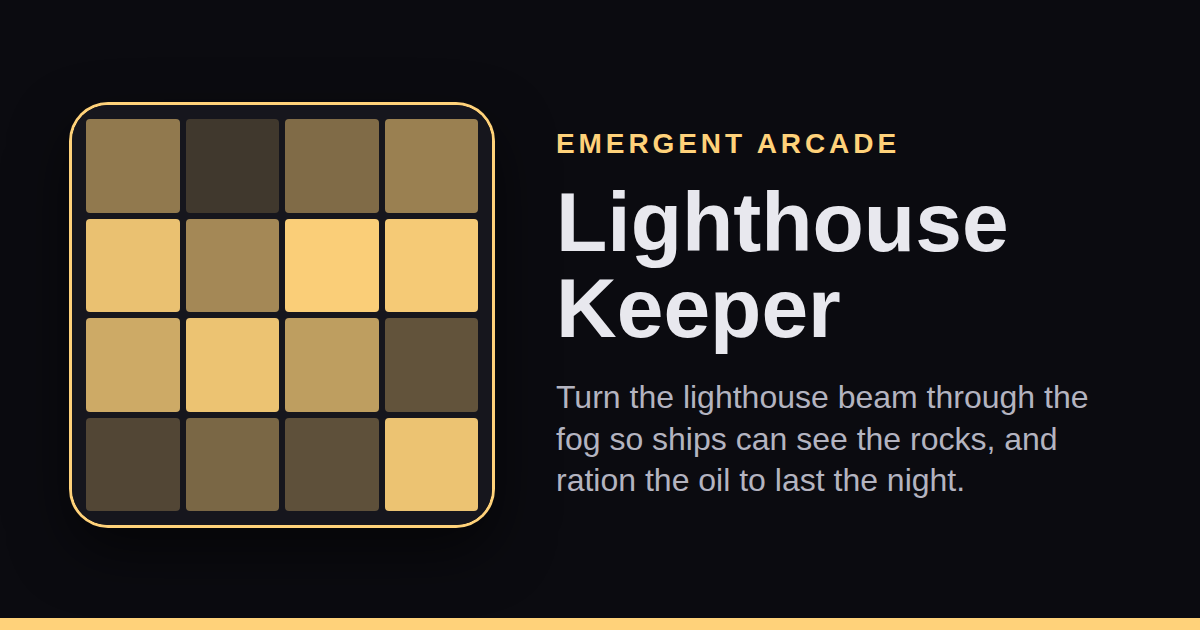
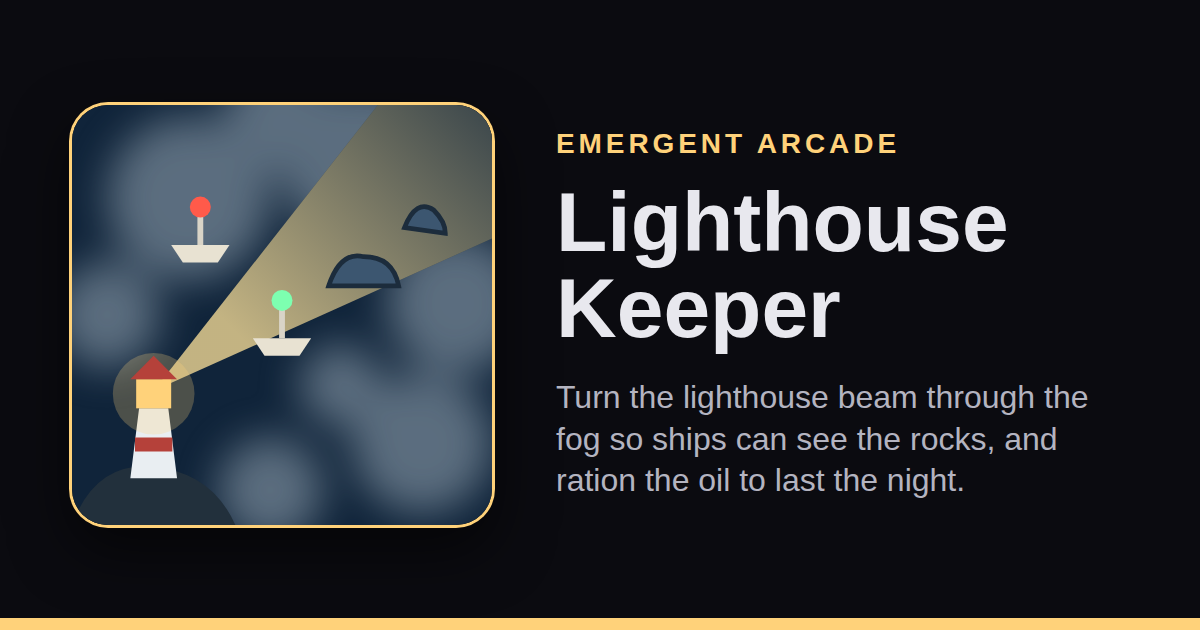
Lighthouse Keeper: draw gallery card art and redraw link preview
The card fell back to the generated accent-pixel pattern because no
assets/thumbs.js entry existed. New art: fogged sea, the beam burning a
clear wedge from the lighthouse, rocks, a lit ship and a blind one.

Claude-Session: https://claude.ai/code/session_01SroXtPA8zn2zhAixjmx6g9

Changed region(s): [[0.0617, 0.1508, 0.4317, 0.8444]]

diff --git a/assets/thumbs.js b/assets/thumbs.js
@@ -349,5 +349,30 @@ window.ArcadeThumbs = (function () {
     return svg(body);
   }
 
-  return { "pressure-grid": pressureGrid, "orbit-garden": orbitGarden, murmuration, "ant-trails": antTrails, "wildfire-line": wildfireLine, "hourglass-delivery": hourglassDelivery, "hot-iron": hotIron, "island-census": islandCensus, loom, "terrace-garden": terraceGarden, "bubble-glass": bubbleGlass, tidewright, "rail-yard": railYard, aqueduct, "counterfeit-scale": counterfeitScale, "coat-check": coatCheck, mycelium, "surprise-party": surpriseParty, geode };
+  function lighthouseKeeper() {
+    let body = `<defs><filter id="lk-fog" x="-20%" y="-20%" width="140%" height="140%"><feGaussianBlur stdDeviation="3.5"/></filter>`
+      + `<linearGradient id="lk-beam" x1="0.15" y1="0.7" x2="1" y2="0"><stop offset="0" stop-color="#ffe39a" stop-opacity="0.75"/><stop offset="1" stop-color="#ffe39a" stop-opacity="0.15"/></linearGradient></defs>`;
+    body += `<rect width="72" height="72" fill="#10243a"/>`;
+    // Fog drifts over the sea; the beam from the lighthouse (bottom left) burns a clear wedge through it.
+    body += `<g filter="url(#lk-fog)" fill="#9aaab8" opacity="0.55">`;
+    for (const [x, y, r] of [[50, 10, 14], [66, 34, 12], [20, 16, 14], [36, 2, 10], [6, 36, 9], [60, 58, 12], [34, 66, 9], [46, 48, 7]]) {
+      body += `<circle cx="${x}" cy="${y}" r="${r}"/>`;
+    }
+    body += `</g><path d="M 14 49 L 54 -2 L 74 -2 L 74 22 Z" fill="#10243a"/><path d="M 14 49 L 54 -2 L 74 -2 L 74 22 Z" fill="url(#lk-beam)"/>`;
+    // Rocks in the beam, a lit ship (green mast light) steering past them, a blind one (red) drifting in the fog.
+    body += `<path d="M 44 31 Q 46 25 50 26 Q 55 26 56 31 Z M 57 21 Q 59 16 62 18 Q 64 20 64 22 Z" fill="#3c5670" stroke="#1c2c3c" stroke-width="0.8"/>`;
+    const ship = (x, y, light) => {
+      body += `<path d="M ${x - 5} ${y} L ${x + 5} ${y} L ${x + 3} ${y + 3} L ${x - 3} ${y + 3} Z" fill="#e8e2d2"/>`;
+      body += `<rect x="${x - 0.5}" y="${y - 6}" width="1" height="6" fill="#d9d4c7"/><circle cx="${x}" cy="${y - 6.5}" r="1.8" fill="${light}"/>`;
+    };
+    ship(36, 40, "#7dffb0");
+    ship(22, 24, "#ff5a4a");
+    // The lighthouse on its rock.
+    body += `<path d="M 0 72 Q 4 61 14 62 Q 24 63 28 72 Z" fill="#22303c"/>`;
+    body += `<path d="M 10 64 L 11.5 52 L 16.5 52 L 18 64 Z" fill="#e9eef2"/><rect x="10.8" y="57" width="6.4" height="2.4" fill="#b5413a"/>`;
+    body += `<circle cx="14" cy="49.5" r="7" fill="#ffd27a" opacity="0.25"/><rect x="11" y="47" width="6" height="5" fill="#ffd27a"/><path d="M 10 47 L 14 43 L 18 47 Z" fill="#b5413a"/>`;
+    return svg(body);
+  }
+
+  return { "pressure-grid": pressureGrid, "orbit-garden": orbitGarden, murmuration, "ant-trails": antTrails, "wildfire-line": wildfireLine, "hourglass-delivery": hourglassDelivery, "hot-iron": hotIron, "island-census": islandCensus, loom, "terrace-garden": terraceGarden, "bubble-glass": bubbleGlass, tidewright, "rail-yard": railYard, aqueduct, "counterfeit-scale": counterfeitScale, "coat-check": coatCheck, mycelium, "surprise-party": surpriseParty, geode, "lighthouse-keeper": lighthouseKeeper };
 })();
